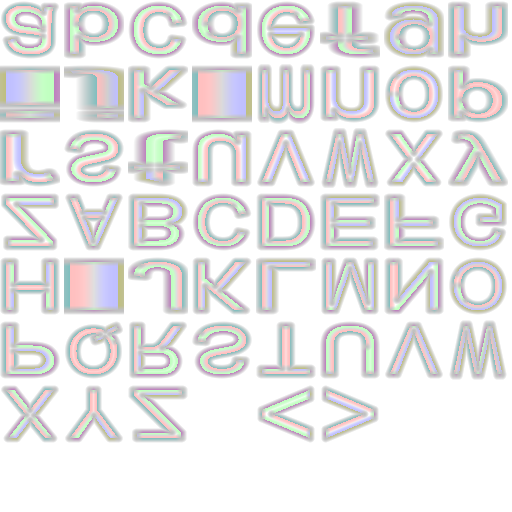
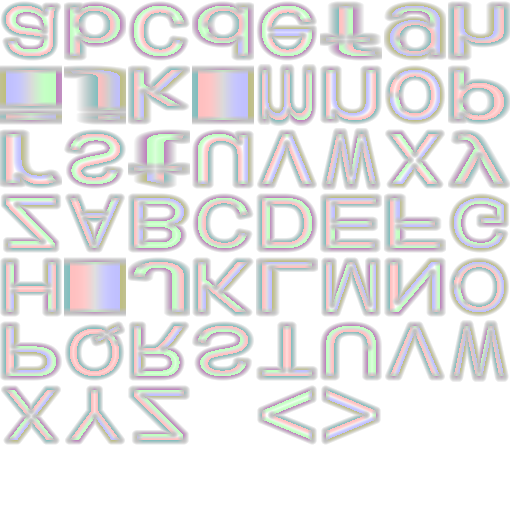
Fix glyph sizing defaults and atlas padding
Initialize glyph width/height defaults and adjust font import/render heuristics to prevent zero-size glyphs and reduce atlas bleed. Glyph.cs sets default glyphWidth/glyphHeight to 1; AuroraFont.cs uses a small fixed lineHeight (0.1f), changes zero-checks to match the new default (== 1), and reduces atlas padding (pad 2 -> 1) to tweak spread. Removed hardcoded minLineHeight in TextInputControl and removed fallback 0.1*px sizing in GlyphControl so controls rely on the glyph defaults. Updated Arial font asset and atlas to match these adjustments. These changes address rendering artifacts and incorrect sizing for missing/empty glyph metrics.

diff --git a/ParticleSimulator/Core/UISystem/AuroraFont.cs b/ParticleSimulator/Core/UISystem/AuroraFont.cs
@@ -185,7 +185,7 @@ namespace ArctisAurora.Core.UISystem
                 short ascender = AssetImporter.ReadInt16BE(reader);
                 reader.BaseStream.Position = hhea.offset + 6;
                 short descender = AssetImporter.ReadInt16BE(reader);
-                float lineHeight = (ascender - descender) / unitsPerEm;
+                float lineHeight = 0.1f;
 
                 for (int i = 0; i < glyphs.glyphCount; i++)
                 {
@@ -197,10 +197,10 @@ namespace ArctisAurora.Core.UISystem
                     {
                         glyphs.glyphs[i].tsb = -(glyphs.glyphs[i].yMin) / unitsPerEm;
                     }
-                    if (glyphs.glyphs[i].glyphHeight == 0)
+                    if (glyphs.glyphs[i].glyphHeight == 1)
                         glyphs.glyphs[i].glyphHeight = lineHeight;
 
-                    if (glyphs.glyphs[i].glyphWidth == 0)
+                    if (glyphs.glyphs[i].glyphWidth == 1)
                         glyphs.glyphs[i].glyphWidth = glyphs.glyphs[i].advanceWidth;
                 }
             }
@@ -489,7 +489,7 @@ namespace ArctisAurora.Core.UISystem
             float normW = (glyph.xMax - glyph.xMin) / scale;
             float normH = (glyph.yMax - glyph.yMin) / scale;
 
-            int pad = 2;
+            int pad = 1;
             int innerSize = cellSize - pad * 2;
             int spreadPx = innerSize / 8;
             float spreadU = (spreadPx / (float)innerSize) * normW;

diff --git a/ParticleSimulator/Core/UISystem/Controls/Text/GlyphControl.cs b/ParticleSimulator/Core/UISystem/Controls/Text/GlyphControl.cs
@@ -23,8 +23,6 @@ namespace ArctisAurora.Core.UISystem.Controls.Text
 
             preferredWidth = (int)(glyph.glyphWidth * px);
             preferredHeight = (int)(glyph.glyphHeight * px);
-            if (preferredWidth == 0) preferredWidth = (int)(px * 0.1f);
-            if (preferredHeight == 0) preferredHeight = (int)(px * 0.1f);
 
             float k = MathF.Ceiling(MathF.Sqrt(fontAsset.atlasMetaData.glyphCount));
             float glyphAtlasSize = 1f / k;

diff --git a/ParticleSimulator/Core/UISystem/Glyph.cs b/ParticleSimulator/Core/UISystem/Glyph.cs
@@ -7,8 +7,8 @@ namespace ArctisAurora.Core.UISystem
     public class Glyph
     {
         public short xMin, yMin, xMax, yMax;
-        public float glyphWidth;
-        public float glyphHeight;
+        public float glyphWidth = 1;
+        public float glyphHeight = 1;
 
         [@NonSerializable]
         public List<List<Edge>> edgeContours = new List<List<Edge>>();

diff --git a/ParticleSimulator/Core/UISystem/Controls/Text/Editing/TextInputControl.cs b/ParticleSimulator/Core/UISystem/Controls/Text/Editing/TextInputControl.cs
@@ -39,7 +39,6 @@ namespace ArctisAurora.Core.UISystem.Controls.Text.Editing
 
         public TextInputControl() 
         {
-            minLineHeight = 50f;
         }
 
         #region ---- EDITING ----
